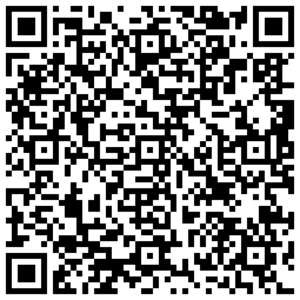
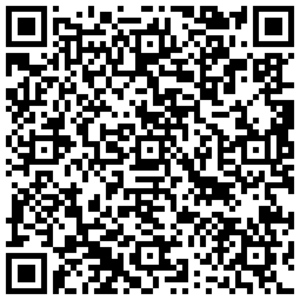
Update free configs - 2025-04-05

diff --git a/README.md b/README.md
@@ -1,6 +1,6 @@
 # 文档下方有很多可直接导入使用的高速节点/二维码订阅
 
-<p align='center'><strong>2025-04-04 12点准时更新每日免费节点，更多机场VPN优惠信息：<a href="https://vpn.tg10000.com">vpn.tg10000.com</a></strong></p>
+<p align='center'><strong>2025-04-05 12点准时更新每日免费节点，更多机场VPN优惠信息：<a href="https://vpn.tg10000.com">vpn.tg10000.com</a></strong></p>
 <p align='center'><strong>Telegram群:<a href="https://t.me/freevpn">@freevpntg</a></strong></p>
 
 
@@ -60,120 +60,120 @@
 
 <p align='center'><img src='img/1.png' alt='QR Code' width='300'></p>
 
-<p align='center'><code>ss://Y2hhY2hhMjAtaWV0Zi1wb2x5MTMwNTo3MmJiYjA4OS0xNWQ2LTQyNWUtYjRmNS05ODExZDFiMDVmYmY=@free.2apzhfa.xyz:31141#0%7C%F0%9F%87%AD%F0%9F%87%B0%E9%A6%99%E6%B8%AF%2001%20%7C%201x%20HK</code></p>
+<p align='center'><code>ss://Y2hhY2hhMjAtaWV0Zi1wb2x5MTMwNTpjNjljZDA0MS1mZmZlLTQ1MzUtODg5NC03MmY0ZjJhZWVmYjQ=@free.2apzhfa.xyz:31141#0%7C%F0%9F%87%AD%F0%9F%87%B0%E9%A6%99%E6%B8%AF%2001%20%7C%201x%20HK</code></p>
 
 <p align='center'><img src='img/2.png' alt='QR Code' width='300'></p>
 
-<p align='center'><code>ss://Y2hhY2hhMjAtaWV0Zi1wb2x5MTMwNTo3MmJiYjA4OS0xNWQ2LTQyNWUtYjRmNS05ODExZDFiMDVmYmY=@free.2apzhfa.xyz:31143#0%7C%F0%9F%87%AD%F0%9F%87%B0%E9%A6%99%E6%B8%AF%2002%20%7C%201x%20HK</code></p>
+<p align='center'><code>ss://Y2hhY2hhMjAtaWV0Zi1wb2x5MTMwNTpjNjljZDA0MS1mZmZlLTQ1MzUtODg5NC03MmY0ZjJhZWVmYjQ=@free.2apzhfa.xyz:31143#0%7C%F0%9F%87%AD%F0%9F%87%B0%E9%A6%99%E6%B8%AF%2002%20%7C%201x%20HK</code></p>
 
 <p align='center'><img src='img/3.png' alt='QR Code' width='300'></p>
 
-<p align='center'><code>ss://Y2hhY2hhMjAtaWV0Zi1wb2x5MTMwNTo3MmJiYjA4OS0xNWQ2LTQyNWUtYjRmNS05ODExZDFiMDVmYmY=@free.2apzhfa.xyz:31145#0%7C%F0%9F%87%AD%F0%9F%87%B0%E9%A6%99%E6%B8%AF%E5%AE%B6%E5%AE%BD%2003%20%7C%201x%20HK</code></p>
+<p align='center'><code>ss://Y2hhY2hhMjAtaWV0Zi1wb2x5MTMwNTpjNjljZDA0MS1mZmZlLTQ1MzUtODg5NC03MmY0ZjJhZWVmYjQ=@free.2apzhfa.xyz:31145#0%7C%F0%9F%87%AD%F0%9F%87%B0%E9%A6%99%E6%B8%AF%E5%AE%B6%E5%AE%BD%2003%20%7C%201x%20HK</code></p>
 
 <p align='center'><img src='img/4.png' alt='QR Code' width='300'></p>
 
-<p align='center'><code>ss://Y2hhY2hhMjAtaWV0Zi1wb2x5MTMwNTo3MmJiYjA4OS0xNWQ2LTQyNWUtYjRmNS05ODExZDFiMDVmYmY=@free.2apzhfa.xyz:31241#0%7C%F0%9F%87%B9%F0%9F%87%BC%E5%8F%B0%E6%B9%BE%2001%20%7C%201x%20TW</code></p>
+<p align='center'><code>ss://Y2hhY2hhMjAtaWV0Zi1wb2x5MTMwNTpjNjljZDA0MS1mZmZlLTQ1MzUtODg5NC03MmY0ZjJhZWVmYjQ=@free.2apzhfa.xyz:31241#0%7C%F0%9F%87%B9%F0%9F%87%BC%E5%8F%B0%E6%B9%BE%2001%20%7C%201x%20TW</code></p>
 
 <p align='center'><img src='img/5.png' alt='QR Code' width='300'></p>
 
-<p align='center'><code>ss://Y2hhY2hhMjAtaWV0Zi1wb2x5MTMwNTo3MmJiYjA4OS0xNWQ2LTQyNWUtYjRmNS05ODExZDFiMDVmYmY=@free.2apzhfa.xyz:31243#0%7C%F0%9F%87%B9%F0%9F%87%BC%E5%8F%B0%E6%B9%BE%2002%20%7C%201x%20TW</code></p>
+<p align='center'><code>ss://Y2hhY2hhMjAtaWV0Zi1wb2x5MTMwNTpjNjljZDA0MS1mZmZlLTQ1MzUtODg5NC03MmY0ZjJhZWVmYjQ=@free.2apzhfa.xyz:31243#0%7C%F0%9F%87%B9%F0%9F%87%BC%E5%8F%B0%E6%B9%BE%2002%20%7C%201x%20TW</code></p>
 
 <p align='center'><img src='img/6.png' alt='QR Code' width='300'></p>
 
-<p align='center'><code>ss://Y2hhY2hhMjAtaWV0Zi1wb2x5MTMwNTo3MmJiYjA4OS0xNWQ2LTQyNWUtYjRmNS05ODExZDFiMDVmYmY=@free.2apzhfa.xyz:31245#0%7C%F0%9F%87%B9%F0%9F%87%BC%E5%8F%B0%E6%B9%BE%2003%20%7C%201x%20TW</code></p>
+<p align='center'><code>ss://Y2hhY2hhMjAtaWV0Zi1wb2x5MTMwNTpjNjljZDA0MS1mZmZlLTQ1MzUtODg5NC03MmY0ZjJhZWVmYjQ=@free.2apzhfa.xyz:31245#0%7C%F0%9F%87%B9%F0%9F%87%BC%E5%8F%B0%E6%B9%BE%2003%20%7C%201x%20TW</code></p>
 
 <p align='center'><img src='img/7.png' alt='QR Code' width='300'></p>
 
-<p align='center'><code>ss://Y2hhY2hhMjAtaWV0Zi1wb2x5MTMwNTo3MmJiYjA4OS0xNWQ2LTQyNWUtYjRmNS05ODExZDFiMDVmYmY=@free.2apzhfa.xyz:31111#0%7C%F0%9F%87%AF%F0%9F%87%B5%E6%97%A5%E6%9C%AC%2001%20%7C%201x%20JP</code></p>
+<p align='center'><code>ss://Y2hhY2hhMjAtaWV0Zi1wb2x5MTMwNTpjNjljZDA0MS1mZmZlLTQ1MzUtODg5NC03MmY0ZjJhZWVmYjQ=@free.2apzhfa.xyz:31111#0%7C%F0%9F%87%AF%F0%9F%87%B5%E6%97%A5%E6%9C%AC%2001%20%7C%201x%20JP</code></p>
 
 <p align='center'><img src='img/8.png' alt='QR Code' width='300'></p>
 
-<p align='center'><code>ss://Y2hhY2hhMjAtaWV0Zi1wb2x5MTMwNTo3MmJiYjA4OS0xNWQ2LTQyNWUtYjRmNS05ODExZDFiMDVmYmY=@free.2apzhfa.xyz:31113#0%7C%F0%9F%87%AF%F0%9F%87%B5%E6%97%A5%E6%9C%AC%2002%20%7C%201x%20JP</code></p>
+<p align='center'><code>ss://Y2hhY2hhMjAtaWV0Zi1wb2x5MTMwNTpjNjljZDA0MS1mZmZlLTQ1MzUtODg5NC03MmY0ZjJhZWVmYjQ=@free.2apzhfa.xyz:31113#0%7C%F0%9F%87%AF%F0%9F%87%B5%E6%97%A5%E6%9C%AC%2002%20%7C%201x%20JP</code></p>
 
 <p align='center'><img src='img/9.png' alt='QR Code' width='300'></p>
 
-<p align='center'><code>ss://Y2hhY2hhMjAtaWV0Zi1wb2x5MTMwNTo3MmJiYjA4OS0xNWQ2LTQyNWUtYjRmNS05ODExZDFiMDVmYmY=@free.2apzhfa.xyz:31115#0%7C%F0%9F%87%AF%F0%9F%87%B5%E6%97%A5%E6%9C%AC%2003%20%7C%201x%20JP</code></p>
+<p align='center'><code>ss://Y2hhY2hhMjAtaWV0Zi1wb2x5MTMwNTpjNjljZDA0MS1mZmZlLTQ1MzUtODg5NC03MmY0ZjJhZWVmYjQ=@free.2apzhfa.xyz:31115#0%7C%F0%9F%87%AF%F0%9F%87%B5%E6%97%A5%E6%9C%AC%2003%20%7C%201x%20JP</code></p>
 
 <p align='center'><img src='img/10.png' alt='QR Code' width='300'></p>
 
-<p align='center'><code>ss://Y2hhY2hhMjAtaWV0Zi1wb2x5MTMwNTo3MmJiYjA4OS0xNWQ2LTQyNWUtYjRmNS05ODExZDFiMDVmYmY=@free.2apzhfa.xyz:31171#0%7C%F0%9F%87%B8%F0%9F%87%AC%E6%96%B0%E5%8A%A0%E5%9D%A1%2001%20%7C%201x%20SG</code></p>
+<p align='center'><code>ss://Y2hhY2hhMjAtaWV0Zi1wb2x5MTMwNTpjNjljZDA0MS1mZmZlLTQ1MzUtODg5NC03MmY0ZjJhZWVmYjQ=@free.2apzhfa.xyz:31171#0%7C%F0%9F%87%B8%F0%9F%87%AC%E6%96%B0%E5%8A%A0%E5%9D%A1%2001%20%7C%201x%20SG</code></p>
 
 <p align='center'><img src='img/11.png' alt='QR Code' width='300'></p>
 
-<p align='center'><code>ss://Y2hhY2hhMjAtaWV0Zi1wb2x5MTMwNTo3MmJiYjA4OS0xNWQ2LTQyNWUtYjRmNS05ODExZDFiMDVmYmY=@free.2apzhfa.xyz:31173#0%7C%F0%9F%87%B8%F0%9F%87%AC%E6%96%B0%E5%8A%A0%E5%9D%A1%2002%20%7C%201x%20SG</code></p>
+<p align='center'><code>ss://Y2hhY2hhMjAtaWV0Zi1wb2x5MTMwNTpjNjljZDA0MS1mZmZlLTQ1MzUtODg5NC03MmY0ZjJhZWVmYjQ=@free.2apzhfa.xyz:31173#0%7C%F0%9F%87%B8%F0%9F%87%AC%E6%96%B0%E5%8A%A0%E5%9D%A1%2002%20%7C%201x%20SG</code></p>
 
 <p align='center'><img src='img/12.png' alt='QR Code' width='300'></p>
 
-<p align='center'><code>ss://Y2hhY2hhMjAtaWV0Zi1wb2x5MTMwNTo3MmJiYjA4OS0xNWQ2LTQyNWUtYjRmNS05ODExZDFiMDVmYmY=@free.2apzhfa.xyz:31175#0%7C%F0%9F%87%B8%F0%9F%87%AC%E6%96%B0%E5%8A%A0%E5%9D%A1%2003%20%7C%201x%20SG</code></p>
+<p align='center'><code>ss://Y2hhY2hhMjAtaWV0Zi1wb2x5MTMwNTpjNjljZDA0MS1mZmZlLTQ1MzUtODg5NC03MmY0ZjJhZWVmYjQ=@free.2apzhfa.xyz:31175#0%7C%F0%9F%87%B8%F0%9F%87%AC%E6%96%B0%E5%8A%A0%E5%9D%A1%2003%20%7C%201x%20SG</code></p>
 
 <p align='center'><img src='img/13.png' alt='QR Code' width='300'></p>
 
-<p align='center'><code>ss://Y2hhY2hhMjAtaWV0Zi1wb2x5MTMwNTo3MmJiYjA4OS0xNWQ2LTQyNWUtYjRmNS05ODExZDFiMDVmYmY=@free.2apzhfa.xyz:31311#0%7C%F0%9F%87%B0%F0%9F%87%B7%E9%9F%A9%E5%9B%BD%2001%20%7C%201x%20KR</code></p>
+<p align='center'><code>ss://Y2hhY2hhMjAtaWV0Zi1wb2x5MTMwNTpjNjljZDA0MS1mZmZlLTQ1MzUtODg5NC03MmY0ZjJhZWVmYjQ=@free.2apzhfa.xyz:31311#0%7C%F0%9F%87%B0%F0%9F%87%B7%E9%9F%A9%E5%9B%BD%2001%20%7C%201x%20KR</code></p>
 
 <p align='center'><img src='img/14.png' alt='QR Code' width='300'></p>
 
-<p align='center'><code>ss://Y2hhY2hhMjAtaWV0Zi1wb2x5MTMwNTo3MmJiYjA4OS0xNWQ2LTQyNWUtYjRmNS05ODExZDFiMDVmYmY=@free.2apzhfa.xyz:31313#0%7C%F0%9F%87%B0%F0%9F%87%B7%E9%9F%A9%E5%9B%BD%2002%20%7C%201x%20KR</code></p>
+<p align='center'><code>ss://Y2hhY2hhMjAtaWV0Zi1wb2x5MTMwNTpjNjljZDA0MS1mZmZlLTQ1MzUtODg5NC03MmY0ZjJhZWVmYjQ=@free.2apzhfa.xyz:31313#0%7C%F0%9F%87%B0%F0%9F%87%B7%E9%9F%A9%E5%9B%BD%2002%20%7C%201x%20KR</code></p>
 
 <p align='center'><img src='img/15.png' alt='QR Code' width='300'></p>
 
-<p align='center'><code>ss://Y2hhY2hhMjAtaWV0Zi1wb2x5MTMwNTo3MmJiYjA4OS0xNWQ2LTQyNWUtYjRmNS05ODExZDFiMDVmYmY=@free.2apzhfa.xyz:31341#0%7C%F0%9F%87%B5%F0%9F%87%AD%E8%8F%B2%E5%BE%8B%E5%AE%BE%2001%20%7C%201x%20PH</code></p>
+<p align='center'><code>ss://Y2hhY2hhMjAtaWV0Zi1wb2x5MTMwNTpjNjljZDA0MS1mZmZlLTQ1MzUtODg5NC03MmY0ZjJhZWVmYjQ=@free.2apzhfa.xyz:31341#0%7C%F0%9F%87%B5%F0%9F%87%AD%E8%8F%B2%E5%BE%8B%E5%AE%BE%2001%20%7C%201x%20PH</code></p>
 
 <p align='center'><img src='img/16.png' alt='QR Code' width='300'></p>
 
-<p align='center'><code>ss://Y2hhY2hhMjAtaWV0Zi1wb2x5MTMwNTo3MmJiYjA4OS0xNWQ2LTQyNWUtYjRmNS05ODExZDFiMDVmYmY=@free.2apzhfa.xyz:31211#0%7C%F0%9F%87%BA%F0%9F%87%B8%E7%BE%8E%E5%9B%BD%2001%20%7C%201x%20US%20Los%20Angeles</code></p>
+<p align='center'><code>ss://Y2hhY2hhMjAtaWV0Zi1wb2x5MTMwNTpjNjljZDA0MS1mZmZlLTQ1MzUtODg5NC03MmY0ZjJhZWVmYjQ=@free.2apzhfa.xyz:31211#0%7C%F0%9F%87%BA%F0%9F%87%B8%E7%BE%8E%E5%9B%BD%2001%20%7C%201x%20US%20Los%20Angeles</code></p>
 
 <p align='center'><img src='img/17.png' alt='QR Code' width='300'></p>
 
-<p align='center'><code>ss://Y2hhY2hhMjAtaWV0Zi1wb2x5MTMwNTo3MmJiYjA4OS0xNWQ2LTQyNWUtYjRmNS05ODExZDFiMDVmYmY=@free.2apzhfa.xyz:31213#0%7C%F0%9F%87%BA%F0%9F%87%B8%E7%BE%8E%E5%9B%BD%E5%AE%B6%E5%AE%BD%2002%20%7C%201x%20US%20Los%20Angeles</code></p>
+<p align='center'><code>ss://Y2hhY2hhMjAtaWV0Zi1wb2x5MTMwNTpjNjljZDA0MS1mZmZlLTQ1MzUtODg5NC03MmY0ZjJhZWVmYjQ=@free.2apzhfa.xyz:31213#0%7C%F0%9F%87%BA%F0%9F%87%B8%E7%BE%8E%E5%9B%BD%E5%AE%B6%E5%AE%BD%2002%20%7C%201x%20US%20Los%20Angeles</code></p>
 
 <p align='center'><img src='img/18.png' alt='QR Code' width='300'></p>
 
-<p align='center'><code>ss://Y2hhY2hhMjAtaWV0Zi1wb2x5MTMwNTo3MmJiYjA4OS0xNWQ2LTQyNWUtYjRmNS05ODExZDFiMDVmYmY=@free.2apzhfa.xyz:31215#0%7C%F0%9F%87%BA%F0%9F%87%B8%E7%BE%8E%E5%9B%BD%2003%20%7C%201x%20US%20Washington</code></p>
+<p align='center'><code>ss://Y2hhY2hhMjAtaWV0Zi1wb2x5MTMwNTpjNjljZDA0MS1mZmZlLTQ1MzUtODg5NC03MmY0ZjJhZWVmYjQ=@free.2apzhfa.xyz:31215#0%7C%F0%9F%87%BA%F0%9F%87%B8%E7%BE%8E%E5%9B%BD%2003%20%7C%201x%20US%20Washington</code></p>
 
 <p align='center'><img src='img/19.png' alt='QR Code' width='300'></p>
 
-<p align='center'><code>ss://Y2hhY2hhMjAtaWV0Zi1wb2x5MTMwNTo3MmJiYjA4OS0xNWQ2LTQyNWUtYjRmNS05ODExZDFiMDVmYmY=@free.2apzhfa.xyz:31271#0%7C%F0%9F%87%AC%F0%9F%87%A7%E8%8B%B1%E5%9B%BD%E5%AE%B6%E5%AE%BD%2001%20%7C%201x%20UK</code></p>
+<p align='center'><code>ss://Y2hhY2hhMjAtaWV0Zi1wb2x5MTMwNTpjNjljZDA0MS1mZmZlLTQ1MzUtODg5NC03MmY0ZjJhZWVmYjQ=@free.2apzhfa.xyz:31271#0%7C%F0%9F%87%AC%F0%9F%87%A7%E8%8B%B1%E5%9B%BD%E5%AE%B6%E5%AE%BD%2001%20%7C%201x%20UK</code></p>
 
 <p align='center'><img src='img/20.png' alt='QR Code' width='300'></p>
 
-<p align='center'><code>ss://Y2hhY2hhMjAtaWV0Zi1wb2x5MTMwNTo3MmJiYjA4OS0xNWQ2LTQyNWUtYjRmNS05ODExZDFiMDVmYmY=@free.2apzhfa.xyz:31741#0%7C%F0%9F%87%B9%F0%9F%87%AD%E6%B3%B0%E5%9B%BD01%20%20%7C%201x%20TH</code></p>
+<p align='center'><code>ss://Y2hhY2hhMjAtaWV0Zi1wb2x5MTMwNTpjNjljZDA0MS1mZmZlLTQ1MzUtODg5NC03MmY0ZjJhZWVmYjQ=@free.2apzhfa.xyz:31741#0%7C%F0%9F%87%B9%F0%9F%87%AD%E6%B3%B0%E5%9B%BD01%20%20%7C%201x%20TH</code></p>
 
 <p align='center'><img src='img/21.png' alt='QR Code' width='300'></p>
 
-<p align='center'><code>ss://Y2hhY2hhMjAtaWV0Zi1wb2x5MTMwNTo3MmJiYjA4OS0xNWQ2LTQyNWUtYjRmNS05ODExZDFiMDVmYmY=@free.2apzhfa.xyz:31721#0%7C%F0%9F%87%B2%F0%9F%87%BE%E9%A9%AC%E6%9D%A5%E8%A5%BF%E4%BA%9A01%20%7C%201x%20MY</code></p>
+<p align='center'><code>ss://Y2hhY2hhMjAtaWV0Zi1wb2x5MTMwNTpjNjljZDA0MS1mZmZlLTQ1MzUtODg5NC03MmY0ZjJhZWVmYjQ=@free.2apzhfa.xyz:31721#0%7C%F0%9F%87%B2%F0%9F%87%BE%E9%A9%AC%E6%9D%A5%E8%A5%BF%E4%BA%9A01%20%7C%201x%20MY</code></p>
 
 <p align='center'><img src='img/22.png' alt='QR Code' width='300'></p>
 
-<p align='center'><code>ss://Y2hhY2hhMjAtaWV0Zi1wb2x5MTMwNTo3MmJiYjA4OS0xNWQ2LTQyNWUtYjRmNS05ODExZDFiMDVmYmY=@free.2apzhfa.xyz:31722#0%7C%F0%9F%87%B2%F0%9F%87%BE%E9%A9%AC%E6%9D%A5%E8%A5%BF%E4%BA%9A02%20%7C%201x%20MY</code></p>
+<p align='center'><code>ss://Y2hhY2hhMjAtaWV0Zi1wb2x5MTMwNTpjNjljZDA0MS1mZmZlLTQ1MzUtODg5NC03MmY0ZjJhZWVmYjQ=@free.2apzhfa.xyz:31722#0%7C%F0%9F%87%B2%F0%9F%87%BE%E9%A9%AC%E6%9D%A5%E8%A5%BF%E4%BA%9A02%20%7C%201x%20MY</code></p>
 
 <p align='center'><img src='img/23.png' alt='QR Code' width='300'></p>
 
-<p align='center'><code>ss://Y2hhY2hhMjAtaWV0Zi1wb2x5MTMwNTo3MmJiYjA4OS0xNWQ2LTQyNWUtYjRmNS05ODExZDFiMDVmYmY=@free.2apzhfa.xyz:31371#0%7C%F0%9F%87%AE%F0%9F%87%B3%E5%8D%B0%E5%BA%A6%2001%20%7C%201x%20IN</code></p>
+<p align='center'><code>ss://Y2hhY2hhMjAtaWV0Zi1wb2x5MTMwNTpjNjljZDA0MS1mZmZlLTQ1MzUtODg5NC03MmY0ZjJhZWVmYjQ=@free.2apzhfa.xyz:31371#0%7C%F0%9F%87%AE%F0%9F%87%B3%E5%8D%B0%E5%BA%A6%2001%20%7C%201x%20IN</code></p>
 
 <p align='center'><img src='img/24.png' alt='QR Code' width='300'></p>
 
-<p align='center'><code>ss://Y2hhY2hhMjAtaWV0Zi1wb2x5MTMwNTo3MmJiYjA4OS0xNWQ2LTQyNWUtYjRmNS05ODExZDFiMDVmYmY=@free.2apzhfa.xyz:31411#0%7C%F0%9F%87%A6%F0%9F%87%BA%E6%BE%B3%E5%A4%A7%E5%88%A9%E4%BA%9A%2001%20%7C%201x%20AU</code></p>
+<p align='center'><code>ss://Y2hhY2hhMjAtaWV0Zi1wb2x5MTMwNTpjNjljZDA0MS1mZmZlLTQ1MzUtODg5NC03MmY0ZjJhZWVmYjQ=@free.2apzhfa.xyz:31411#0%7C%F0%9F%87%A6%F0%9F%87%BA%E6%BE%B3%E5%A4%A7%E5%88%A9%E4%BA%9A%2001%20%7C%201x%20AU</code></p>
 
 <p align='center'><img src='img/25.png' alt='QR Code' width='300'></p>
 
-<p align='center'><code>ss://Y2hhY2hhMjAtaWV0Zi1wb2x5MTMwNTo3MmJiYjA4OS0xNWQ2LTQyNWUtYjRmNS05ODExZDFiMDVmYmY=@free.2apzhfa.xyz:31441#0%7C%F0%9F%87%A8%F0%9F%87%A6%E5%8A%A0%E6%8B%BF%E5%A4%A7%2001%20%7C%201x%20CA</code></p>
+<p align='center'><code>ss://Y2hhY2hhMjAtaWV0Zi1wb2x5MTMwNTpjNjljZDA0MS1mZmZlLTQ1MzUtODg5NC03MmY0ZjJhZWVmYjQ=@free.2apzhfa.xyz:31441#0%7C%F0%9F%87%A8%F0%9F%87%A6%E5%8A%A0%E6%8B%BF%E5%A4%A7%2001%20%7C%201x%20CA</code></p>
 
 <p align='center'><img src='img/26.png' alt='QR Code' width='300'></p>
 
-<p align='center'><code>ss://Y2hhY2hhMjAtaWV0Zi1wb2x5MTMwNTo3MmJiYjA4OS0xNWQ2LTQyNWUtYjRmNS05ODExZDFiMDVmYmY=@free.2apzhfa.xyz:31471#0%7C%F0%9F%87%A9%F0%9F%87%AA%E5%BE%B7%E5%9B%BD%2001%20%7C%201x%20DE</code></p>
+<p align='center'><code>ss://Y2hhY2hhMjAtaWV0Zi1wb2x5MTMwNTpjNjljZDA0MS1mZmZlLTQ1MzUtODg5NC03MmY0ZjJhZWVmYjQ=@free.2apzhfa.xyz:31471#0%7C%F0%9F%87%A9%F0%9F%87%AA%E5%BE%B7%E5%9B%BD%2001%20%7C%201x%20DE</code></p>
 
 <p align='center'><img src='img/27.png' alt='QR Code' width='300'></p>
 
-<p align='center'><code>ss://Y2hhY2hhMjAtaWV0Zi1wb2x5MTMwNTo3MmJiYjA4OS0xNWQ2LTQyNWUtYjRmNS05ODExZDFiMDVmYmY=@free.2apzhfa.xyz:31511#0%7C%F0%9F%87%B7%F0%9F%87%BA%E4%BF%84%E7%BD%97%E6%96%AF%2001%20%7C%201x%20RU</code></p>
+<p align='center'><code>ss://Y2hhY2hhMjAtaWV0Zi1wb2x5MTMwNTpjNjljZDA0MS1mZmZlLTQ1MzUtODg5NC03MmY0ZjJhZWVmYjQ=@free.2apzhfa.xyz:31511#0%7C%F0%9F%87%B7%F0%9F%87%BA%E4%BF%84%E7%BD%97%E6%96%AF%2001%20%7C%201x%20RU</code></p>
 
 <p align='center'><img src='img/28.png' alt='QR Code' width='300'></p>
 
-<p align='center'><code>ss://Y2hhY2hhMjAtaWV0Zi1wb2x5MTMwNTo3MmJiYjA4OS0xNWQ2LTQyNWUtYjRmNS05ODExZDFiMDVmYmY=@free.2apzhfa.xyz:31571#0%7C%F0%9F%87%B9%F0%9F%87%B7%E5%9C%9F%E8%80%B3%E5%85%B6%2001%20%7C%201x%20TR</code></p>
+<p align='center'><code>ss://Y2hhY2hhMjAtaWV0Zi1wb2x5MTMwNTpjNjljZDA0MS1mZmZlLTQ1MzUtODg5NC03MmY0ZjJhZWVmYjQ=@free.2apzhfa.xyz:31571#0%7C%F0%9F%87%B9%F0%9F%87%B7%E5%9C%9F%E8%80%B3%E5%85%B6%2001%20%7C%201x%20TR</code></p>
 
 <p align='center'><img src='img/29.png' alt='QR Code' width='300'></p>
 
-<p align='center'><code>ss://Y2hhY2hhMjAtaWV0Zi1wb2x5MTMwNTo3MmJiYjA4OS0xNWQ2LTQyNWUtYjRmNS05ODExZDFiMDVmYmY=@free.2apzhfa.xyz:31611#0%7C%F0%9F%87%BA%F0%9F%87%A6%E4%B9%8C%E5%85%8B%E5%85%B0%2001%20%7C%201x%20UA</code></p>
+<p align='center'><code>ss://Y2hhY2hhMjAtaWV0Zi1wb2x5MTMwNTpjNjljZDA0MS1mZmZlLTQ1MzUtODg5NC03MmY0ZjJhZWVmYjQ=@free.2apzhfa.xyz:31611#0%7C%F0%9F%87%BA%F0%9F%87%A6%E4%B9%8C%E5%85%8B%E5%85%B0%2001%20%7C%201x%20UA</code></p>
 
 <p align='center'><img src='img/30.png' alt='QR Code' width='300'></p>
 
-<p align='center'><code>ss://Y2hhY2hhMjAtaWV0Zi1wb2x5MTMwNTo3MmJiYjA4OS0xNWQ2LTQyNWUtYjRmNS05ODExZDFiMDVmYmY=@free.2apzhfa.xyz:31641#0%7C%F0%9F%87%BB%F0%9F%87%B3%E8%B6%8A%E5%8D%97%2001%20%7C%201x%20VN</code></p>
+<p align='center'><code>ss://Y2hhY2hhMjAtaWV0Zi1wb2x5MTMwNTpjNjljZDA0MS1mZmZlLTQ1MzUtODg5NC03MmY0ZjJhZWVmYjQ=@free.2apzhfa.xyz:31641#0%7C%F0%9F%87%BB%F0%9F%87%B3%E8%B6%8A%E5%8D%97%2001%20%7C%201x%20VN</code></p>
